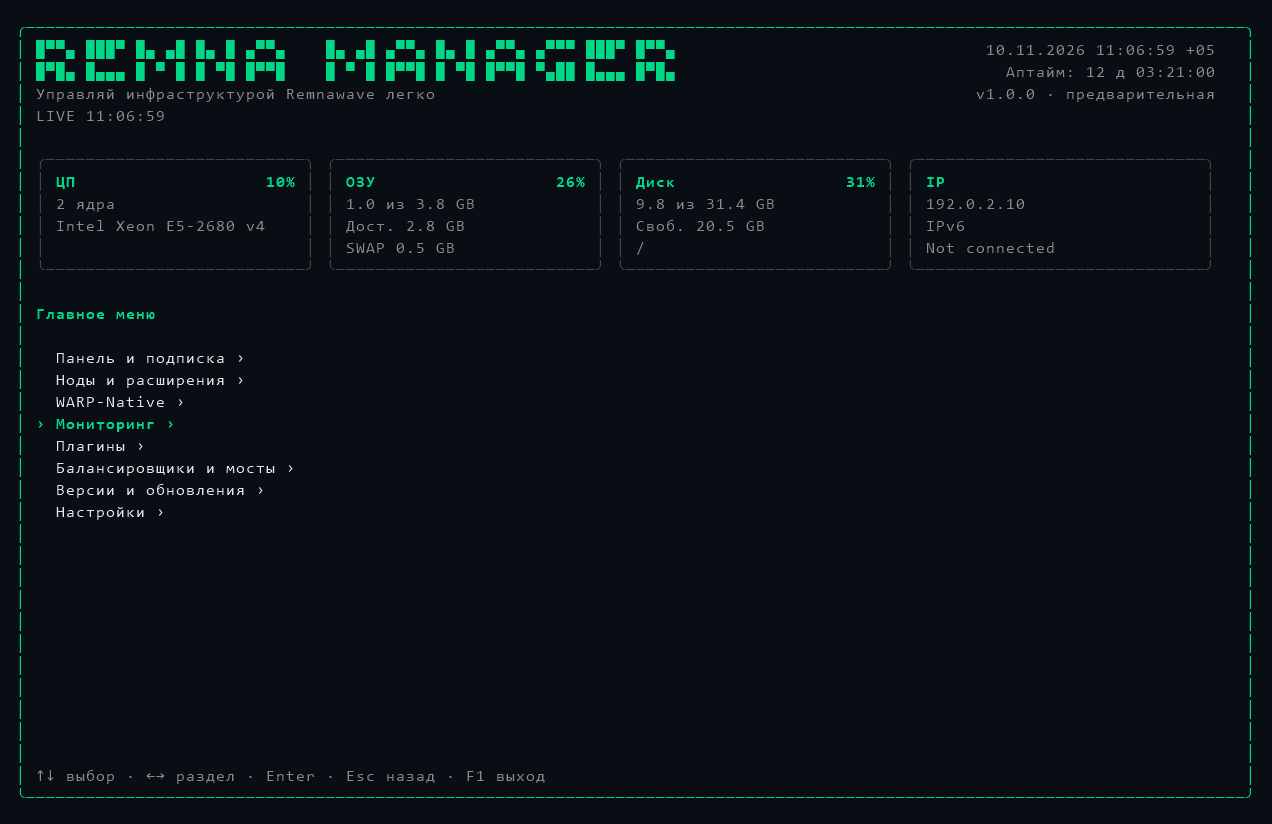
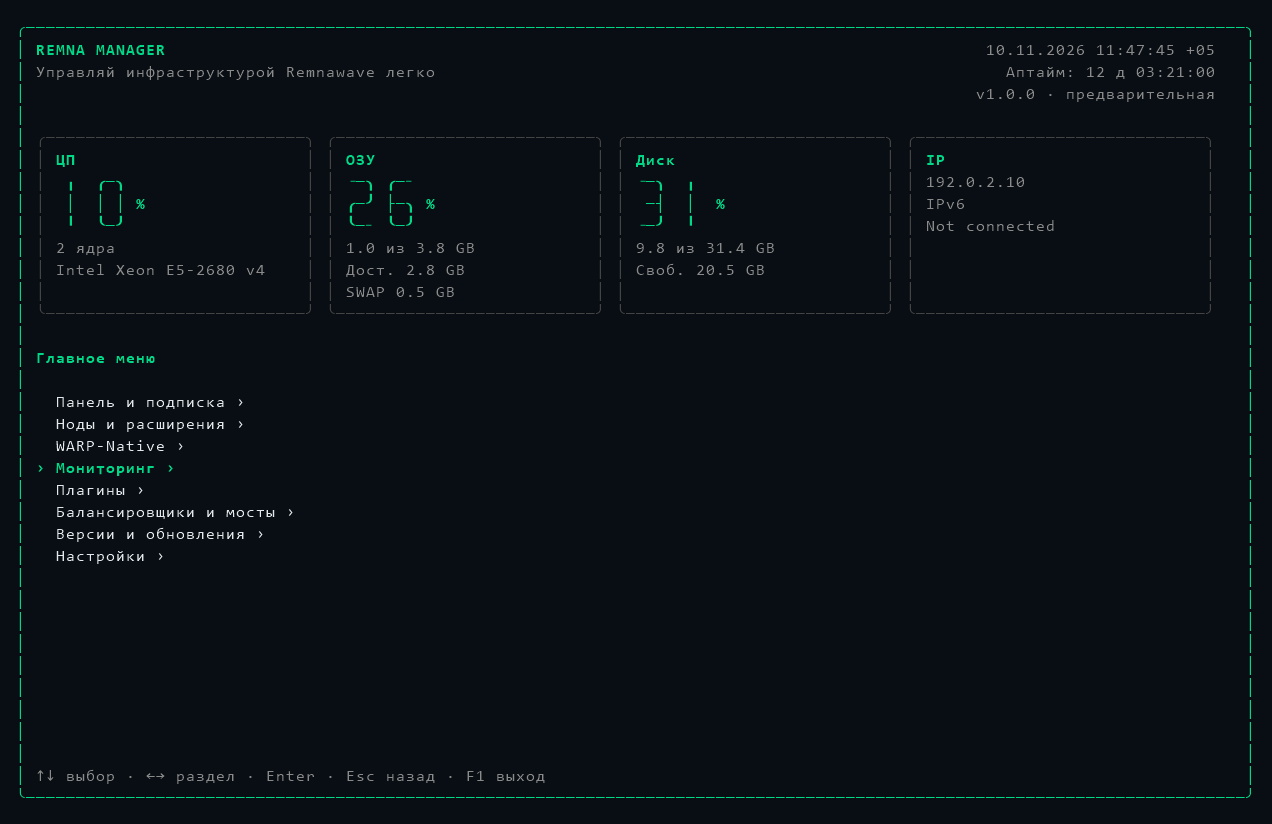
style: simplify header and enlarge resource percentages

diff --git a/internal/ui/header.go b/internal/ui/header.go
@@ -15,12 +15,6 @@ func (m Model) serverHeader(now time.Time) string {
 	compact := width < 62 || m.height < 24
 	title := accent.Render("REMNA MANAGER")
 	tagline := m.l("Управляй инфраструктурой Remnawave легко", "Manage your Remnawave infrastructure with ease")
-	if width >= 104 && m.height >= 28 {
-		title = largeTitle()
-	}
-	if compact {
-		title = accent.Render("REMNA MANAGER")
-	}
 	status := m.metricsStatus(now)
 	version := updater.Version + " · " + m.l("предварительная", "preview")
 	if updater.Newer(m.latest, updater.Version) {
@@ -78,7 +72,7 @@ func (m Model) metricsStatus(now time.Time) string {
 	if now.Sub(m.lastStats) > 5*time.Second {
 		return warning.Render(m.l("Метрики устарели", "Metrics delayed"))
 	}
-	return muted.Render("LIVE " + m.lastStats.Format("15:04:05"))
+	return ""
 }
 
 func formatUptime(seconds uint64, english bool) string {
@@ -92,37 +86,4 @@ func formatUptime(seconds uint64, english bool) string {
 		label = "d"
 	}
 	return fmt.Sprintf("%d %s %s", days, label, clock)
-}
-
-// Two rows of terminal blocks make the title larger without image protocols.
-func largeTitle() string {
-	font := map[rune][4]string{
-		'R': {"1110", "1001", "1110", "1011"}, 'E': {"1111", "1110", "1000", "1111"},
-		'M': {"10001", "11011", "10101", "10001"}, 'N': {"1001", "1101", "1011", "1001"},
-		'A': {"0110", "1001", "1111", "1001"}, 'G': {"0111", "1000", "1011", "0111"},
-		' ': {"00", "00", "00", "00"},
-	}
-	lines := make([]string, 2)
-	for row := 0; row < 2; row++ {
-		var line strings.Builder
-		for _, r := range "REMNA MANAGER" {
-			glyph := font[r]
-			for col := range glyph[0] {
-				top, bottom := glyph[row*2][col] == '1', glyph[row*2+1][col] == '1'
-				cell := " "
-				switch {
-				case top && bottom:
-					cell = "█"
-				case top:
-					cell = "▀"
-				case bottom:
-					cell = "▄"
-				}
-				line.WriteString(cell)
-			}
-			line.WriteByte(' ')
-		}
-		lines[row] = accent.Render(strings.TrimRight(line.String(), " "))
-	}
-	return strings.Join(lines, "\n")
 }

diff --git a/internal/ui/header_test.go b/internal/ui/header_test.go
@@ -17,10 +17,13 @@ func TestServerTimeAndUptime(t *testing.T) {
 	m.lastStats = now.Add(-2 * time.Second)
 	m.stats.Uptime = 90060
 	header := ansi.Strip(m.serverHeader(now))
-	for _, want := range []string{"10.11.2026 05:42:48 YEKT", "Аптайм: 1 д 01:01:02", "v1.0.0", "Remnawave"} {
+	for _, want := range []string{"REMNA MANAGER", "10.11.2026 05:42:48 YEKT", "Аптайм: 1 д 01:01:02", "v1.0.0", "Remnawave"} {
 		if !strings.Contains(header, want) {
 			t.Fatalf("missing %q: %s", want, header)
 		}
+	}
+	if strings.Contains(header, "LIVE") || strings.Contains(header, "█") {
+		t.Fatal("header must use readable text without LIVE", header)
 	}
 	later := ansi.Strip(m.serverHeader(now.Add(time.Second)))
 	if !strings.Contains(later, "05:42:49") || !strings.Contains(later, "01:01:03") {
@@ -48,7 +51,7 @@ func TestStatsCardsAndLongIPv6(t *testing.T) {
 	m.lastStats = time.Now()
 	m.stats = stats.Snapshot{CPUs: 2, CPU: 10, CPUModel: "Intel Xeon", Memory: 4 << 30, Available: 3 << 30, Swap: 1 << 29, Disk: 32 << 30, DiskUsed: 10 << 30, Free: 21 << 30, DiskPercent: 31, IPv4: "89.144.34.16", IPv6: "2001:db8:1234:5678:9abc:def0:1234:abcd", Uptime: 86401}
 	block := ansi.Strip(m.classicStatsView())
-	for _, want := range []string{"ЦП", "10%", "2 ядра", "Intel Xeon", "ОЗУ", "25%", "1.0 из 4.0 GB", "SWAP 0.5 GB", "Диск", "31%", "IP", "89.144.34.16", "2001:db8", ":abcd"} {
+	for _, want := range []string{"ЦП", "2 ядра", "Intel Xeon", "ОЗУ", "1.0 из 4.0 GB", "SWAP 0.5 GB", "Диск", "IP", "89.144.34.16", "2001:db8", ":abcd"} {
 		if !strings.Contains(block, want) {
 			t.Fatalf("missing %q: %s", want, block)
 		}

diff --git a/internal/ui/percentage.go b/internal/ui/percentage.go
@@ -1,0 +1,44 @@
+package ui
+
+import (
+	"strings"
+
+	"github.com/charmbracelet/lipgloss"
+)
+
+// Outline numerals use three terminal rows, keeping percentages legible without
+// changing the terminal font or requiring an image protocol.
+func largePercentage(value string, width int) []string {
+	font := map[rune][3]string{
+		'0': {"╭─╮", "│ │", "╰─╯"}, '1': {" ╷ ", " │ ", " ╵ "},
+		'2': {"╶─╮", "╭─╯", "╰─╴"}, '3': {"╶─╮", " ─┤", "╶─╯"},
+		'4': {"╷ ╷", "╰─┤", "  ╵"}, '5': {"╭─╴", "╰─╮", "╶─╯"},
+		'6': {"╭─╴", "├─╮", "╰─╯"}, '7': {"╶─╮", "  │", "  ╵"},
+		'8': {"╭─╮", "├─┤", "╰─╯"}, '9': {"╭─╮", "╰─┤", "╶─╯"},
+	}
+	digits := strings.TrimSuffix(value, "%")
+	if len(digits) == 0 || !strings.HasSuffix(value, "%") {
+		return []string{accent.Render(value)}
+	}
+	rows := make([]string, 3)
+	for row := 0; row < 3; row++ {
+		parts := make([]string, 0, len(digits))
+		for _, digit := range digits {
+			glyph, ok := font[digit]
+			if !ok {
+				return []string{accent.Render(value)}
+			}
+			parts = append(parts, glyph[row])
+		}
+		suffix := "  "
+		if row == 1 {
+			suffix = " %"
+		}
+		rows[row] = strings.Join(parts, " ") + suffix
+		if lipgloss.Width(rows[row]) > width {
+			return []string{accent.Render(value)}
+		}
+		rows[row] = accent.Render(rows[row])
+	}
+	return rows
+}

diff --git a/internal/ui/view_stats.go b/internal/ui/view_stats.go
@@ -48,7 +48,7 @@ func (m Model) classicStatsView() string {
 	cards := []serverCard{
 		{m.l("ЦП", "CPU"), fmt.Sprintf("%.0f%%", s.CPU), []string{cores, model}},
 		{m.l("ОЗУ", "RAM"), ramPercent, []string{m.volumeLine(used, s.Memory), fmt.Sprintf(m.l("Дост. %.1f GB", "Avail. %.1f GB"), gb(s.Available)), fmt.Sprintf("SWAP %.1f GB", gb(s.Swap))}},
-		{m.l("Диск", "Disk"), fmt.Sprintf("%.0f%%", s.DiskPercent), []string{m.volumeLine(s.DiskUsed, s.Disk), fmt.Sprintf(m.l("Своб. %.1f GB", "Free %.1f GB"), gb(s.Free)), "/"}},
+		{m.l("Диск", "Disk"), fmt.Sprintf("%.0f%%", s.DiskPercent), []string{m.volumeLine(s.DiskUsed, s.Disk), fmt.Sprintf(m.l("Своб. %.1f GB", "Free %.1f GB"), gb(s.Free))}},
 		{"IP", "", []string{v4, "IPv6", v6}},
 	}
 	width := m.contentWidth()
@@ -62,7 +62,10 @@ func (m Model) classicStatsView() string {
 	maxRows := 4
 	for i, card := range cards {
 		inner := max(1, widths[i]-4)
-		rows[i] = []string{headerLine(accent.Render(card.title), accent.Render(card.value), inner)}
+		rows[i] = []string{accent.Render(card.title)}
+		if card.value != "" {
+			rows[i] = append(rows[i], largePercentage(card.value, inner)...)
+		}
 		for j, line := range card.lines {
 			if i == 0 && j == 1 {
 				wrapped := strings.Split(ansi.Hardwrap(line, inner, true), "\n")

diff --git a/internal/ui/live_test.go b/internal/ui/live_test.go
@@ -30,6 +30,7 @@ func TestStatsPollingAcrossScreens(t *testing.T) {
 				return stats.Snapshot{CPUs: 4, CPU: float64(reads * 17), Memory: 4 << 30, Available: uint64(reads) << 30, IPv4: "192.0.2.1", IPv6: "Not connected"}
 			}
 			for i := 1; i <= 3; i++ {
+				before := m.classicStatsView()
 				next, collect := m.Update(pollStats{})
 				m = next.(Model)
 				if collect == nil {
@@ -40,7 +41,7 @@ func TestStatsPollingAcrossScreens(t *testing.T) {
 				if tick == nil {
 					t.Fatal("polling stopped")
 				}
-				if !strings.Contains(m.View(), fmt.Sprintf("%d%%", i*17)) || !strings.Contains(m.View(), "LIVE") {
+				if m.stats.CPU != float64(i*17) || m.classicStatsView() == before || strings.Contains(m.View(), "LIVE") {
 					t.Fatal("header did not update", m.View())
 				}
 				if m.screen != screen || m.stage != 3 || m.frames[0].cursor != 2 || m.inputs[0].Value() != "admin@example.com" || m.inputs[0].Position() != 0 {

diff --git a/doc/ui-design.md b/doc/ui-design.md
@@ -12,8 +12,8 @@
 ## Шапка
 
 Слева — REMNA MANAGER и «Управляй инфраструктурой Remnawave легко».
-При достаточной ширине название увеличено блочными символами Unicode;
-в обычном окне 80 колонок остаётся компактный текст. Изображения, Kitty/Sixel,
+Название отображается обычным читаемым текстом при любой ширине окна.
+Изображения, Kitty/Sixel,
 дополнительные шрифты и True Color не требуются.
 
 Справа — дата и текущее время с часовым поясом сервера, затем его аптайм,
@@ -28,18 +28,20 @@
 
 В широком окне четыре блока расположены рядом:
 
-- ЦП: текущая загрузка, число логических CPU с правильным склонением,
+- ЦП: текущая загрузка крупными контурными цифрами, число логических CPU с правильным склонением,
   модель процессора из `cpu.InfoWithContext`.
 - ОЗУ: процент занятой памяти, занятый объём из общего, доступная память
   и общий объём SWAP. Занятое для этого представления — всего минус доступно.
 - Диск: процент, занятый объём из общего, свободное место, файловая система `/`.
   Занятое берётся из `disk.Usage.Used`, чтобы не включать резерв файловой системы.
+  Отдельная строка с точкой монтирования `/` не выводится.
 - IP: IPv4 и IPv6 интерфейсов, либо `Not connected`.
 
 Длинный IPv6 переносится внутри блока. На маленьких экранах используются
 две колонки с компактными значениями. Данные собираются асинхронно примерно
-раз в секунду. Индикатор LIVE показывает время последнего измерения;
-задержки и ошибки выделяются явно.
+раз в секунду. Надпись LIVE с временем измерения не выводится;
+задержки и ошибки по-прежнему выделяются явно. Проценты ЦП, ОЗУ и диска
+занимают три строки, на маленьких экранах используется компактное начертание.
 
 В контейнере аптайм относится к его ядру Linux (Docker VM), а ресурсы —
 к доступному контейнеру окружению. На обычном VPS читаются его системные данные.
@@ -69,3 +71,8 @@
 Также прошли `go build ./...`, `go test ./...`, `go vet ./...` и сборки
 для Linux amd64/arm64. PTY-тест отвечает на запросы цвета фона и положения
 курсора: сам по себе псевдотерминал не эмулирует ответы настоящего терминала.
+
+После удаления LIVE, точки монтирования и блочного заголовка и увеличения
+процентов повторно прошли Go-проверки, сборки Linux amd64/arm64 и настоящий
+PTY в одноразовом Debian 12-контейнере (`python:3.13-slim-bookworm`). Обновление
+метрик, часов, аптайма и обработчики клавиш не менялись.

diff --git a/README.md b/README.md
@@ -60,9 +60,8 @@ curl -fsSL https://raw.githubusercontent.com/ConsolePro/RemnaManager/feature/go-
 - F1 — выход с подтверждением; Ctrl+C — немедленный выход.
 - Минимальный терминал: 36×18; для мастера удобнее 80×30.
 
-Панель статистики обновляется асинхронно примерно раз в секунду. Индикатор LIVE
-показывает время последнего измерения; задержки и частичные данные отмечаются
-отдельно. Показаны
+Панель статистики обновляется асинхронно примерно раз в секунду. Задержки и
+частичные данные отмечаются отдельно. Показаны
 логические CPU и модель процессора, загрузка, доступная RAM, общий SWAP, файловая система `/` и
 адреса интерфейсов без loopback/link-local. За NAT это не обязательно публичные IP.
 Проверка GitHub ограничена 4 секундами; кэш — 15 минут. Сбой GitHub не мешает
